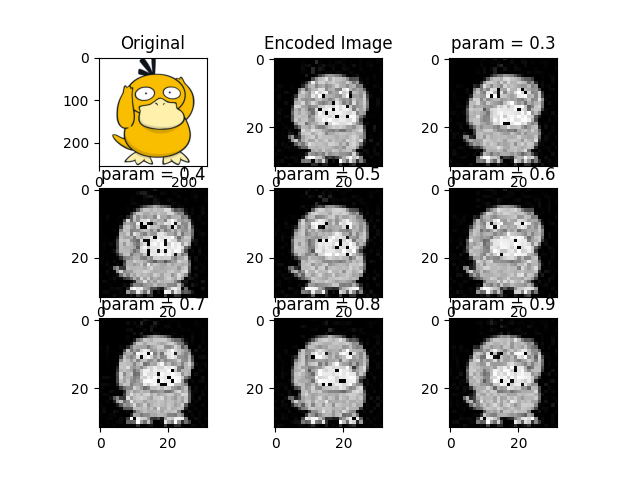
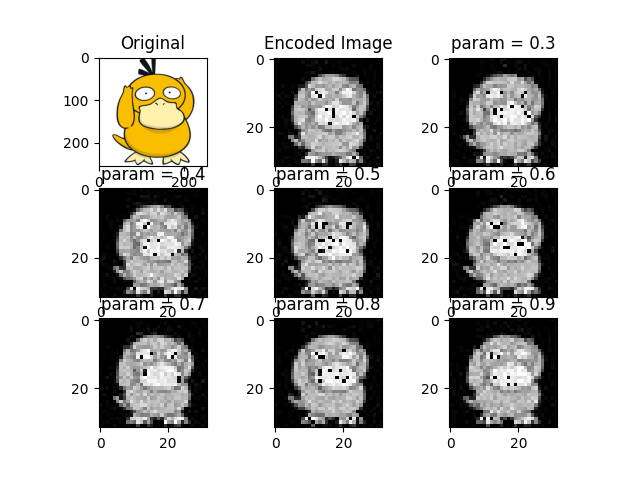
new upload

diff --git a/circuitTest.py b/circuitTest.py
@@ -2,7 +2,7 @@ import numpy as np
 from matplotlib import pyplot as plt
 from qiskit.visualization import plot_distribution
 
-from circuits import angleEncodingCircuit, simulate, basisEncoding
+from circuits import angleEncodingCircuit, simulate, basisEncoding, qramEncoding
 from distributedCircuit import distributedAngleSimulation, distributedBasisSimulation
 from imageUtil import image2Arr
 from imgRev import angleDisReversion, basisEnReversion
@@ -10,13 +10,17 @@ from qiskit_backend import constructBackend
 
 if __name__ == '__main__':
     # imgArr = np.array([0, 125, 200, 255])
-    imgArr = image2Arr(imagePath='img/duck.png', size=32)
-    qc, encoding = basisEncoding(imgArr)
+    imgArr = image2Arr(imagePath='img/duck.png', size=4)
+    # qc, encoding = basisEncoding(imgArr)
     # qc = angleEncodingCircuit(imgArr) # angle encoding test
-    shots = 1
+    qc = qramEncoding(imgArr)
+    shots = 20000
     # qc.draw(output='mpl')
-    sim = constructBackend('qasm', 0, qc.num_qubits)
-    img = distributedBasisSimulation(imgArr, 2, shots, sim)
+    sim = constructBackend('stabilizer', 0, qc.num_qubits)
+    dist = simulate(qc, shots=shots, backend=sim)
+    plot_distribution(dist)
+    # img = distributedBasisSimulation(imgArr, 2, shots, sim)
+    # img = distributedAngleSimulation(imgArr, 4, shots, sim)
     # print(img)
-    plt.imshow(img, cmap='gray')
+    # plt.imshow(img, cmap='gray')
     plt.show()

diff --git a/imgRev.py b/imgRev.py
@@ -32,11 +32,33 @@ def angleDisReversion(dist, imgArr, shots, reshape):
     for item in dist:
         for i, bit in enumerate(item):
             if bit == '0':
+                print(dist[item])
                 pixels[i] += dist[item]
     # print(pixels)
     size = int(math.sqrt(len(imgArr)))
     reconstruct = []
     for pixel in pixels:
+        color = 2 * np.arccos((pixel / shots) ** (1 / 2)) * 100
+        reconstruct.append(color)
+    sorted_dist = np.array(reconstruct)
+    if reshape == True:
+        dist_Mat = sorted_dist.reshape((size, size))
+        return dist_Mat
+    else:
+        return sorted_dist
+
+# retrieve img from dense angle encoding
+def denseAngleDisReversion(dist, imgArr, shots, reshape):
+    pixelsEven = np.zeros((int(len(imgArr) / 2)))
+    for item in dist:
+        for i, bit in enumerate(item):
+            if bit == '0':
+                print(dist[item])
+                pixelsEven[i] += dist[item]
+    # print(pixels)
+    size = int(math.sqrt(len(imgArr)))
+    reconstruct = []
+    for pixel in pixelsEven:
         color = 2 * np.arccos((pixel / shots) ** (1 / 2)) * 100
         reconstruct.append(color)
     sorted_dist = np.array(reconstruct)
@@ -59,3 +81,5 @@ def basisEnReversion(pixelList, imgArr):
 # retrieve img from dense angle encoding
 def DenseAngleReversion(dist, imgArr, shots, reshape):
     pass
+
+# retrieve img from dense angle encoding

diff --git a/qiskit_backend.py b/qiskit_backend.py
@@ -10,6 +10,8 @@ def constructBackend(method, params, qb_nums):
         return Aer.get_backend('statevector_simulator')
     elif (method == 'aer'):
         return AerSimulator()
+    elif (method == 'stabilizer'):
+        return AerSimulator(method='extended_stabilizer')
     elif (method == 'qasm'):
         # noisy qasm simulator
         return Aer.get_backend('qasm_simulator')

diff --git a/QRAM.py b/QRAM.py
@@ -56,7 +56,7 @@ def QRAM_circuit(n, m):
         QRAM.x(A[i])
         QRAM.cx(qy[i], A[i])
 
-    # QRAM.measure_all()
+    QRAM.measure_all()
     return QRAM
 
 if __name__ == '__main__':
